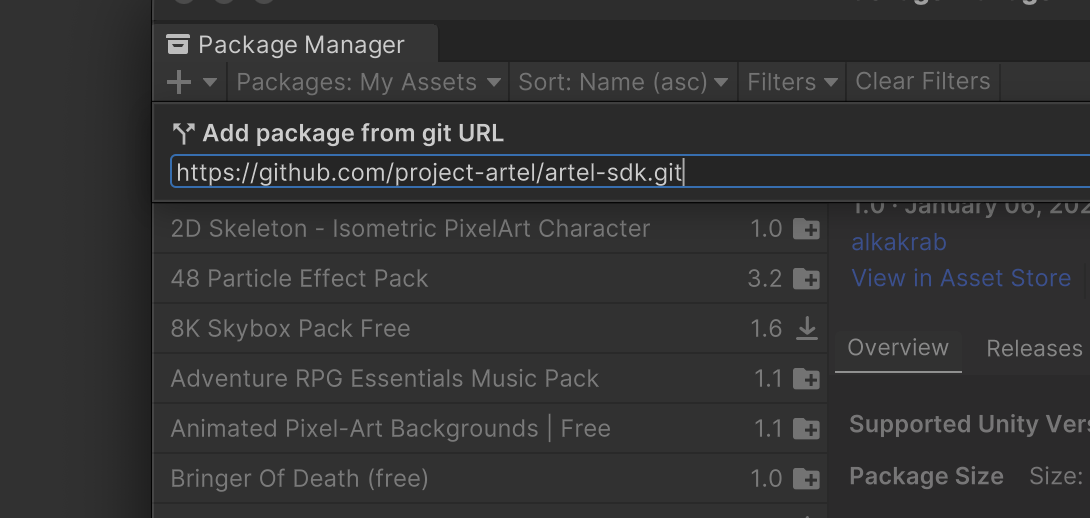
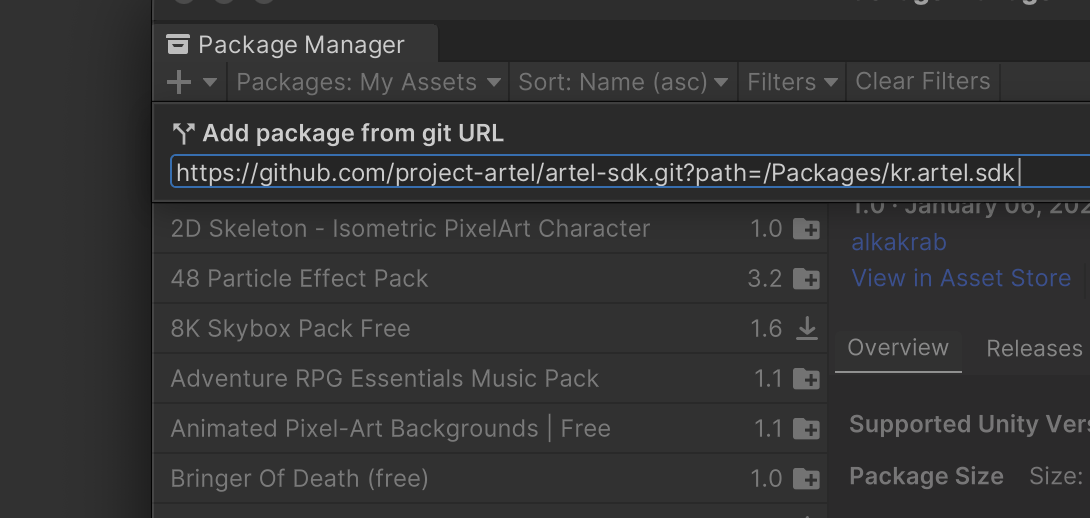
fix: SDK 설치 안내의 패키지 URL 에 path 추가와 단계별 스크린샷 4장 추가
안내가 보여 주던 `https://github.com/project-artel/artel-sdk.git` 는 Unity Package
Manager 가 거부한다. 패키지가 저장소 루트가 아니라 `Packages/kr.artel.sdk` 에 있어서
`?path=/Packages/kr.artel.sdk` 를 붙여야 한다. 1단계 스크린샷의 입력칸에도 같은 URL 이
찍혀 있어서, Unity 에디터와 같은 Inter 폰트로 입력칸의 글자만 다시 그렸다.

로그인 단계를 3단계에서 4단계로 나누고 단계마다 스크린샷을 붙였다.

- 2단계: 게임 화면 위에 뜨는 Artel SDK 로그인 화면 (WordVenture 개발 빌드)
- 3단계: 브라우저의 로그인 페이지 (stage 콘솔, GitHub 로그인 버튼이 보이는 실제 구성)
- 4단계: 게임의 프로젝트 선택 화면과 연결됨으로 표시된 인스턴스 목록

문구에서 "Artel 오버레이" 를 화면 제목대로 "Artel SDK 로그인 화면" 으로 바꿨다. 3단계의
"브라우저에서 SDK 를 승인" 도 고쳤다. 승인 버튼은 없고 로그인하면 바로 승인된다.

세로로 긴 브라우저 스크린샷은 dialog 폭에 맞추면 dialog 보다 길어져서
`guide-shot--narrow` 로 폭을 240px 로 제한한다.

Jira: ARTEL-989

Changed region(s): [[0.3119, 0.3089, 0.9358, 0.3707], [0.156, 0.3089, 0.2807, 0.3707]]

diff --git a/src/projects/SdkInstallGuide.tsx b/src/projects/SdkInstallGuide.tsx
@@ -3,14 +3,23 @@ import { CopyButton } from './CopyButton'
 import { useI18n } from '../i18n/useI18n'
 import addPackageFromGitUrlShot from '../assets/sdk-guide/step1-add-package-from-git-url.png'
 import gitUrlInputShot from '../assets/sdk-guide/step1-git-url-input.png'
+import signInScreenShot from '../assets/sdk-guide/step2-sdk-sign-in-screen.png'
+import browserSignInShot from '../assets/sdk-guide/step3-browser-sign-in.png'
+import projectPickerShot from '../assets/sdk-guide/step4-sdk-project-picker.png'
+import instanceConnectedShot from '../assets/sdk-guide/step4-instance-connected.png'
 
 /**
  * The git URL Unity's Package Manager installs the SDK from. It is a constant
  * of the product, not of this project, so it is not fetched: there is no
  * endpoint that returns it and inventing one would only add a way for the
  * guide to fail to load.
+ *
+ * `?path=` is required, not decoration. The repository root holds the sample
+ * project and the tooling as well, and the package itself is one folder down
+ * at `Packages/kr.artel.sdk`; without the query Package Manager reads the root,
+ * finds no `package.json`, and refuses the URL.
  */
-const SDK_PACKAGE_URL = 'https://github.com/project-artel/artel-sdk.git'
+const SDK_PACKAGE_URL = 'https://github.com/project-artel/artel-sdk.git?path=/Packages/kr.artel.sdk'
 
 /**
  * One screenshot of the Unity editor.
@@ -19,35 +28,47 @@ const SDK_PACKAGE_URL = 'https://github.com/project-artel/artel-sdk.git'
  * the browser only needs the ratio to reserve the box before the image
  * arrives, and the guide scrolls inside a dialog, where a late reflow would
  * move the step the reader is on.
+ *
+ * `narrow` is for a capture taller than it is wide. At the column's full width
+ * the browser sign-in card alone would be taller than the dialog.
  */
 function GuideShot({
   alt,
   height,
+  narrow = false,
   src,
   width,
 }: {
   alt: string
   height: number
+  narrow?: boolean
   src: string
   width: number
 }) {
   return (
-    <img alt={alt} className="guide-shot" height={height} loading="lazy" src={src} width={width} />
+    <img
+      alt={alt}
+      className={narrow ? 'guide-shot guide-shot--narrow' : 'guide-shot'}
+      height={height}
+      loading="lazy"
+      src={src}
+      width={width}
+    />
   )
 }
 
 /**
- * The three steps that turn an empty Unity project into a connected game.
+ * The four steps that turn an empty Unity project into a connected game.
  *
- * The last two are the sign-in: the SDK opens the browser, the browser approves
- * it, and the instance is registered by the first report. Nothing is copied out
- * of this screen any more, which is why the guide no longer needs to know which
- * instance it is being shown for.
+ * The last three are the sign-in: the SDK's sign-in screen opens the browser,
+ * signing in there approves the SDK, and picking a project back in the game
+ * registers the instance. Nothing is copied out of this screen any more, which
+ * is why the guide no longer needs to know which instance it is being shown for.
  *
- * Only the install step carries screenshots, because the Package Manager menu
- * names alone do not say what the reader should be looking at. The sign-in
- * steps have none: the overlay is the SDK's own UI and a screenshot of it would
- * go stale on the SDK's release cycle, not this one's.
+ * Every step carries a screenshot. The sign-in screen and the project picker
+ * are the SDK's own UI, so those two go stale on the SDK's release cycle rather
+ * than this one's; they are still here because without them a first-time
+ * reader has no way to tell which of the game's screens the step means.
  *
  * It owns its own `aria-live` region because it is used inside a dialog that
  * has no panel-level one to borrow.
@@ -105,8 +126,40 @@ export function SdkInstallGuide() {
         width={1090}
       />
     </>,
-    <p className="guide-copy">{t.projects.guide.step2}</p>,
-    <p className="guide-copy">{t.projects.guide.step3}</p>,
+    <>
+      <p className="guide-copy">{t.projects.guide.step2}</p>
+      <GuideShot
+        alt={t.projects.guide.shot2SignInScreenAlt}
+        height={420}
+        src={signInScreenShot}
+        width={480}
+      />
+    </>,
+    <>
+      <p className="guide-copy">{t.projects.guide.step3}</p>
+      <GuideShot
+        alt={t.projects.guide.shot3BrowserSignInAlt}
+        height={1264}
+        narrow
+        src={browserSignInShot}
+        width={840}
+      />
+    </>,
+    <>
+      <p className="guide-copy">{t.projects.guide.step4}</p>
+      <GuideShot
+        alt={t.projects.guide.shot4ProjectPickerAlt}
+        height={420}
+        src={projectPickerShot}
+        width={480}
+      />
+      <GuideShot
+        alt={t.projects.guide.shot4InstanceConnectedAlt}
+        height={454}
+        src={instanceConnectedShot}
+        width={1004}
+      />
+    </>,
   ]
   const isFirst = stepIndex === 0
   const isLast = stepIndex === steps.length - 1

diff --git a/src/i18n/messages/projects.ts b/src/i18n/messages/projects.ts
@@ -184,9 +184,13 @@ export const projectsEn = {
     step1After: '.',
     packageUrlCopied: 'Package URL copied.',
     copyUrl: 'Copy URL',
-    step2: 'Run the game and choose Sign in in the Artel overlay. It opens your browser.',
+    /** The SDK's own buttons are in Korean only, so the label is quoted as it appears. */
+    step2:
+      'Run the game. The Artel SDK sign-in screen appears over it. Choose 로그인 (Sign in) and your browser opens.',
     step3:
-      'Approve the SDK in the browser, then pick this project in the overlay. The instance registers itself from there.',
+      'Sign in to Artel in the browser. Signing in approves the SDK, and you can close the tab after that. If you are already signed in, the SDK is approved as soon as the page opens.',
+    step4:
+      'Back in the game, pick this project. The instance registers itself and shows as Connected in this list. With only one project, the SDK picks it for you.',
     previousStep: 'Back',
     nextStep: 'Next',
     /** Labels the step itself as well as the counter, so both read the same. */
@@ -200,6 +204,12 @@ export const projectsEn = {
       'The plus menu in Package Manager open with Add package from git URL highlighted.',
     shot1GitUrlInputAlt:
       'The Artel SDK git URL typed into the Add package from git URL field.',
+    shot2SignInScreenAlt:
+      'The Artel SDK sign-in screen over the game, with its 로그인 button.',
+    shot3BrowserSignInAlt:
+      'The Artel sign-in page in the browser, saying that signing in approves the SDK waiting on this machine.',
+    shot4ProjectPickerAlt: 'The Artel SDK screen in the game listing projects to connect to.',
+    shot4InstanceConnectedAlt: 'The game instance list in Artel showing the new instance as Connected.',
     note: 'There is no key to keep. The SDK remembers the sign-in on that machine, and the instance is created by the first report.',
   },
   copy: {
@@ -564,15 +574,22 @@ export const projectsKo: Localized<typeof projectsEn> = {
     step1After: '을 선택하세요.',
     packageUrlCopied: '패키지 URL을 복사했습니다.',
     copyUrl: 'URL 복사',
-    step2: '게임을 실행하고 Artel 오버레이에서 로그인을 선택하세요. 브라우저가 열립니다.',
+    step2:
+      '게임을 실행하면 게임 화면 위에 Artel SDK 로그인 화면이 뜹니다. 로그인을 선택하면 브라우저가 열립니다.',
     step3:
-      '브라우저에서 SDK를 승인한 뒤 오버레이에서 이 프로젝트를 선택하세요. 인스턴스는 그 뒤에 자동으로 등록됩니다.',
+      '브라우저에서 Artel에 로그인하세요. 로그인하면 SDK가 승인되고, 그 뒤에는 탭을 닫아도 됩니다. 이미 로그인되어 있다면 페이지가 열리자마자 승인됩니다.',
+    step4:
+      '게임으로 돌아와 이 프로젝트를 선택하세요. 인스턴스가 자동으로 등록되고 이 목록에 연결됨으로 표시됩니다. 프로젝트가 하나뿐이면 SDK가 자동으로 선택합니다.',
     previousStep: '이전',
     nextStep: '다음',
     stepPosition: (current: number, total: number) => `${total}단계 중 ${current}단계`,
     shot1GitUrlMenuAlt:
       'Package Manager의 더하기 메뉴가 열리고 Add package from git URL이 선택된 화면.',
     shot1GitUrlInputAlt: 'Add package from git URL 입력칸에 Artel SDK의 git URL을 입력한 화면.',
+    shot2SignInScreenAlt: '게임 화면 위에 뜬 Artel SDK 로그인 화면과 로그인 버튼.',
+    shot3BrowserSignInAlt: '로그인하면 이 컴퓨터에서 기다리는 SDK를 승인한다고 안내하는 브라우저의 Artel 로그인 페이지.',
+    shot4ProjectPickerAlt: '게임 안의 Artel SDK 화면에 연결할 프로젝트 목록이 표시된 화면.',
+    shot4InstanceConnectedAlt: 'Artel의 게임 인스턴스 목록에 새 인스턴스가 연결됨으로 표시된 화면.',
     note: '따로 보관할 키는 없습니다. SDK가 해당 머신의 로그인을 기억하며, 인스턴스는 첫 보고 시점에 만들어집니다.',
   },
   copy: {

diff --git a/src/App.css b/src/App.css
@@ -1429,6 +1429,12 @@ a.instance-name:hover {
   border-radius: var(--radius-md);
 }
 
+/* A portrait capture keeps its own proportions instead of filling the column. */
+.guide-shot--narrow {
+  max-width: 240px;
+  margin-inline: auto;
+}
+
 .guide-note {
   margin: var(--space-5) 0 var(--space-4);
   color: var(--color-text-muted);
